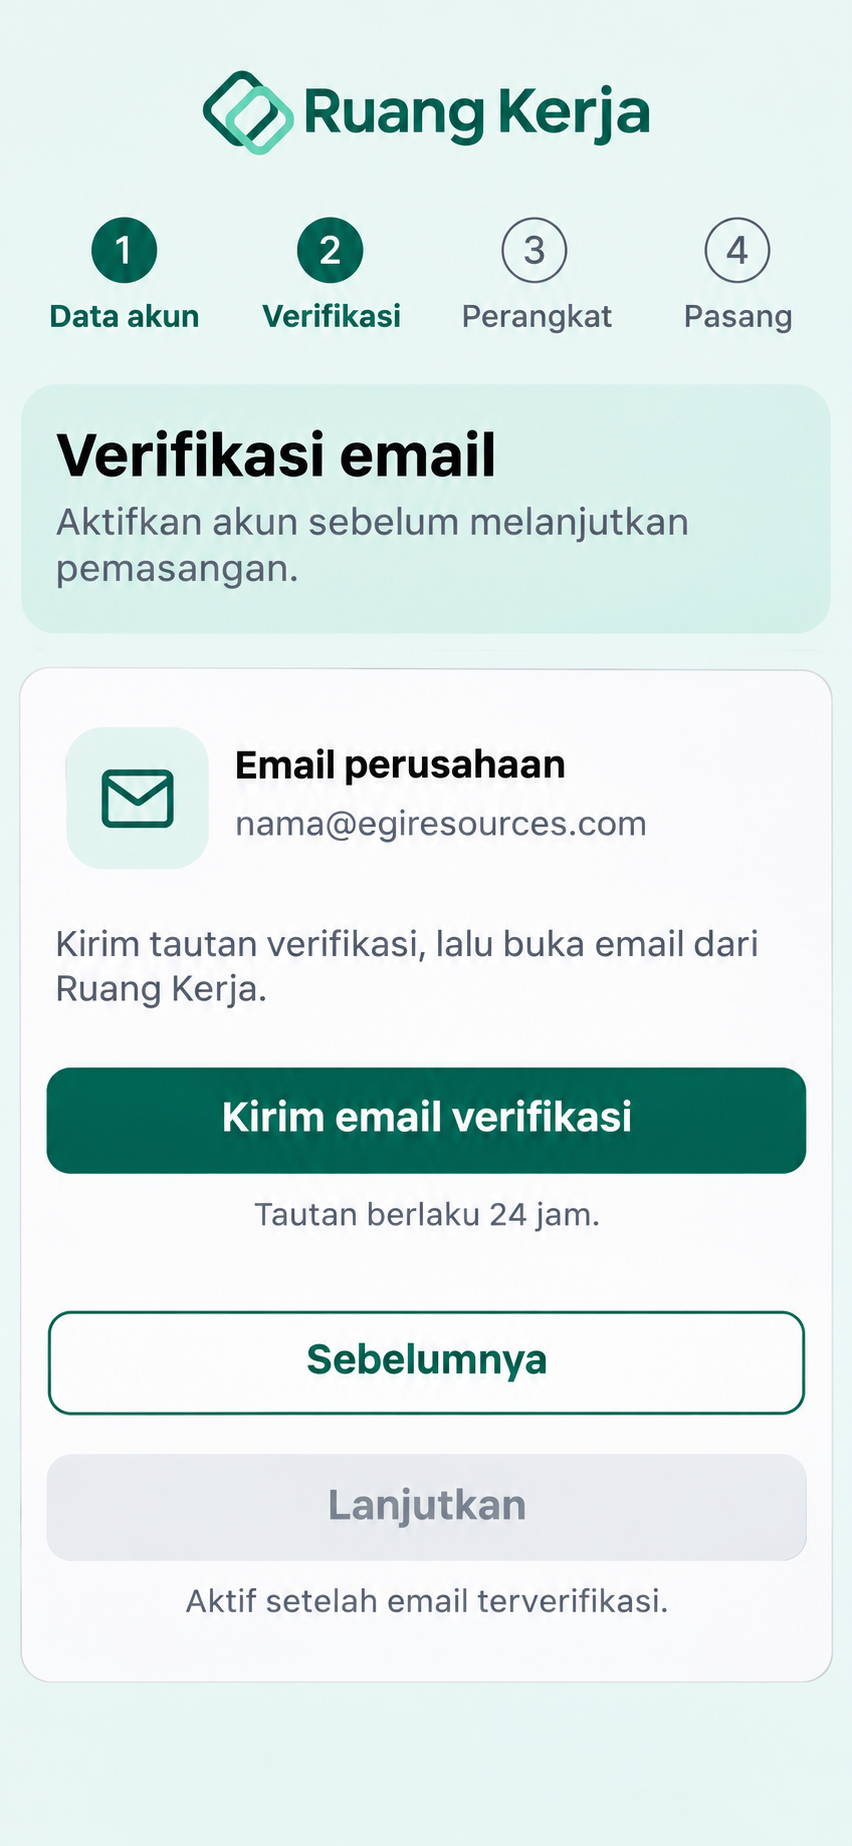
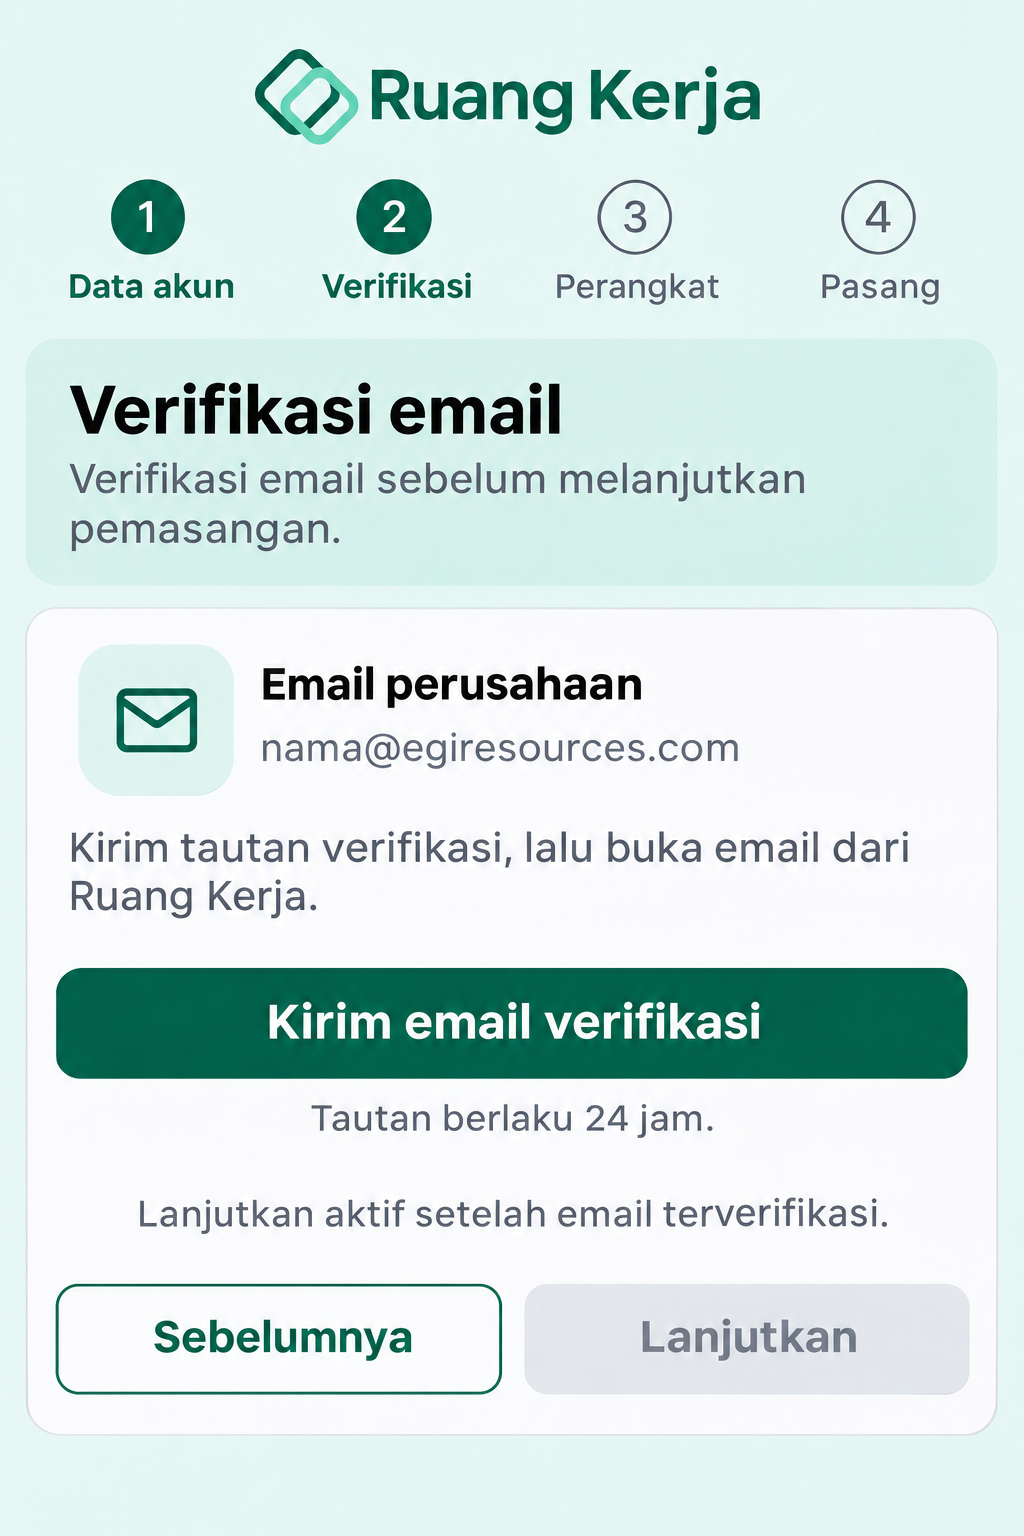
fix: sejajarkan navigasi registrasi dan pemasangan

diff --git a/frontend/src/features/install/AndroidInstall.tsx b/frontend/src/features/install/AndroidInstall.tsx
@@ -1,4 +1,4 @@
-import { ArrowLeft, Check, Download, ExternalLink, Info } from 'lucide-react';
+import { ArrowLeft, Check, ExternalLink, Info } from 'lucide-react';
 import { useEffect, useState } from 'react';
 import { leaveInstallWait, requestInstall, retryInstallCheck, useInstallation } from './controller';
 
@@ -48,14 +48,16 @@ export function AndroidInstall({ step, go, complete, busy }: {
   return <section className="registration-card install-centered">
     <img className="install-app-icon" src="/pwa/icon-512.png" alt="Ikon Ruang Kerja" /><h2>Ruang Kerja</h2>
     <p>Akses pekerjaan langsung dari layar utama, tanpa mencari tab browser.</p>
-    <button className="ui-button install-wide" disabled={!installation.nativeAvailable} onClick={() => { requestInstall(); go('android-wait'); }}>
-      <Download /> Pasang aplikasi</button>
     {!installation.nativeAvailable && <p className="registration-caption">Tombol pemasangan belum tersedia pada browser ini.
       Gunakan Chrome Android terbaru atau panduan menu browser.</p>}
     <button className="registration-text-action" onClick={() => setManual(!manual)}>Panduan pemasangan manual</button>
     {manual && <div className="registration-note"><p>Buka menu Chrome (tiga titik), pilih Tambahkan ke layar utama atau Instal aplikasi, lalu setujui konfirmasi browser.</p>
       <button className="registration-text-action" onClick={() => { retryInstallCheck(); go('android-wait'); }}>Periksa setelah memasang</button></div>}
     <p className="registration-caption">Pemasangan selalu memerlukan persetujuan Anda di browser.</p>
-    <button className="ui-button ui-button--outline install-wide" onClick={() => go('device')}><ArrowLeft /> Sebelumnya</button>
+    <div className="registration-actions">
+      <button className="ui-button ui-button--outline" onClick={() => go('device')}><ArrowLeft /> Sebelumnya</button>
+      <button className="ui-button" disabled={!installation.nativeAvailable} onClick={() => { requestInstall(); go('android-wait'); }}>
+        Pasang aplikasi</button>
+    </div>
   </section>;
 }

diff --git a/frontend/src/features/registration/registration.css b/frontend/src/features/registration/registration.css
@@ -30,14 +30,17 @@
 .registration-login a, .registration-card a:not(.ui-button), .registration-text-action { color: var(--teal); font-weight: 650; }
 .registration-text-action { padding: 8px; min-height: 44px; text-decoration: underline; }
 .registration-note { padding: 12px; border-radius: 12px; background: var(--mint); font-size: var(--font-caption); }
-.registration-actions { display: flex; gap: 12px; margin-top: 24px; }
-.registration-actions .ui-button { flex: 1; }
+.registration-actions { display: grid; grid-auto-flow: column; grid-auto-columns: minmax(0, 1fr); gap: 12px; width: 100%; margin-top: 24px; }
+.registration-actions .ui-button { width: 100%; min-width: 0; padding-inline: 8px; text-align: center; overflow-wrap: anywhere; }
+.registration-actions .ui-button svg { flex-shrink: 0; }
+.registration-actions .ui-button:disabled { background: #e4e8ec; color: #627080; opacity: 1; }
 .registration-feature-icon { width: var(--icon-feature); height: var(--icon-feature); color: var(--teal); margin-bottom: 20px; }
 .registration-mobile-label { display: none; }
 .registration-next { text-align: center; margin: 12px 0 20px !important; }
 .registration-wide + .registration-wide { margin-top: 16px; }
 .registration-email-card { display: grid; gap: 20px; }
 .registration-email-card > p { margin: 0; }
+.registration-email-card .registration-actions { margin-top: 0; }
 .registration-email-card .registration-next { margin: -8px 0 0 !important; }
 .registration-address, .registration-verified { display: flex; align-items: center; gap: 16px; min-width: 0; }
 .registration-address p, .registration-verified p { margin: 4px 0 0; color: var(--muted); overflow-wrap: anywhere; }
@@ -78,5 +81,5 @@
   .registration-card, .registration-intro { padding: 16px; }
   .registration-steps { gap: 4px; }
   .registration-steps li > span { width: 24px; height: 24px; }
-  .registration-actions { flex-direction: column; }
+  .registration-actions .ui-button svg { display: none; }
 }

diff --git a/frontend/src/features/registration/EmailStatusPage.tsx b/frontend/src/features/registration/EmailStatusPage.tsx
@@ -61,10 +61,12 @@ export function RegistrationEmailPage() {
               <p className="registration-caption registration-next" role="status">{registration.sends_remaining === 0 ? 'Batas pengiriman tercapai. Gunakan email terbaru atau daftar kembali setelah tautan kedaluwarsa.'
                 : seconds > 0 ? `Tersedia kembali dalam ${seconds} detik.` : 'Tautan berlaku 24 jam.'}</p>
               {send.error && <p className="auth-error" role="alert">{send.error instanceof ApiError ? send.error.message : 'Koneksi gagal. Periksa status sebelum mencoba kembali.'}</p>}
-              {mobile ? <><button className="ui-button registration-wide" disabled>Lanjutkan</button>
-                <p className="registration-caption registration-next">Tombol Lanjutkan aktif setelah email terverifikasi.</p></>
-                : <p className="registration-caption registration-next">Registrasi selesai setelah email terverifikasi.</p>}
-              <Link className="ui-button ui-button--outline registration-wide" to="/register?edit=1">Sebelumnya</Link>
+              <p className="registration-caption registration-next">{mobile
+                ? 'Tombol Lanjutkan aktif setelah email terverifikasi.' : 'Registrasi selesai setelah email terverifikasi.'}</p>
+              <div className="registration-actions">
+                <Link className="ui-button ui-button--outline" to="/register?edit=1">Sebelumnya</Link>
+                {mobile && <button className="ui-button" disabled>Lanjutkan</button>}
+              </div>
             </>}
     </section>
   </RegistrationShell>;

diff --git a/frontend/src/features/install/install.css b/frontend/src/features/install/install.css
@@ -8,6 +8,7 @@
 .install-platform.selected { border: 2px solid var(--teal); padding: 19px; background: var(--mint); }
 .install-centered { text-align: center; display: flex; flex-direction: column; align-items: center; gap: 20px; }
 .install-centered > p, .install-centered h2 { margin: 0; }
+.install-centered > .registration-actions { margin-top: 0; }
 .install-centered h2 { font-size: var(--font-section); }
 .install-app-icon { width: 112px; height: 112px; object-fit: contain; border-radius: 24px; background: #e6f3ef; padding: 12px; display: block; margin: 0 auto; }
 .install-app { position: relative; }

diff --git a/agents/ui-consistency.md b/agents/ui-consistency.md
@@ -5,5 +5,6 @@
 - Ukuran boleh berubah pada breakpoint yang terdokumentasi, tetapi tidak boleh berbeda hanya karena peran, halaman, kondisi kosong, error, atau dialog.
 - Login umum dan Superadmin harus muat satu layar pada viewport pengujian normal tanpa scroll atau konten terpotong. Jangan menyembunyikan overflow untuk menutupi masalah; akses saat zoom/keyboard juga harus tetap tersedia.
 - Login Superadmin tidak menampilkan panah maupun teks kembali ke login pengguna.
+- Pasangan navigasi tahap selalu sejajar horizontal: Sebelumnya di kiri, Lanjutkan atau tindakan tahap berikutnya di kanan. Lebar dan tinggi setara, jarak 12 px, tetap sejajar pada mobile kecil. Label panjang boleh membungkus tanpa mengecilkan teks/area ketuk; status, bantuan, dan kirim ulang email berada di luar baris navigasi.
 - Sebelum membuka PR ke `develop`, selesaikan matriks seluruh rute/kondisi desktop dan mobile, periksa screenshot secara visual serta ukuran hasil render, perbaiki semua temuan, dan jalankan regresi interaksi. Cantumkan cakupan dan batas pengujian; jangan menyebut halaman diperiksa hanya karena memakai CSS/komponen yang sama.
 - Bersihkan aturan ukuran lama yang sudah digantikan; jangan menumpuk override untuk menyamarkan konflik. Pengujian visual tetap terpisah dari jalur deploy.

diff --git a/mockup/Anggota-Divisi/mobile/registration-verification/README.md b/mockup/Anggota-Divisi/mobile/registration-verification/README.md
@@ -17,3 +17,5 @@ Dibuat dengan OpenAI ImageGen pada 28 November 2026, satu layar per gambar. Pemi
 Form awal tetap berisi nama, email, divisi, kata sandi, dan konfirmasi. Simpan dan lanjut membuka verifikasi; pengiriman email dipicu tombol tersendiri. Jenis alur disimpan saat pendaftaran: desktop selesai setelah verifikasi; HP melanjutkan pilihan perangkat sesudah verifikasi. Membuka email di perangkat lain tidak mengubah alur asal.
 
 Ukuran kode mengikuti standar CSS aplikasi, bukan ukuran piksel raster. Nomor dan tanda centang menandai tahap aktif/selesai; verifikasi email berbeda dari penyelesaian pemasangan.
+
+Revisi navigasi disetujui pemilik pada 28 November 2026: Sebelumnya di kiri dan Lanjutkan/Pasang aplikasi di kanan dalam satu baris horizontal, lebar serta tinggi setara. Gambar terkait telah diganti; versi bertumpuk tidak lagi menjadi referensi aktif. Kirim ulang email dan status tetap berada di luar pasangan navigasi.

diff --git a/mockup/Anggota-Divisi/mobile/onboarding-android/README.md b/mockup/Anggota-Divisi/mobile/onboarding-android/README.md
@@ -29,3 +29,5 @@ Pada login, pengguna yang belum punya akun mendapatkan tombol Daftar Anggota Div
 Warna, ikon, dan tipografi mengikuti bahasa desain Ruang Kerja. Ukuran implementasi nantinya mengikuti [standar UI](../../../../docs/ui-consistency.md); ukuran raster ImageGen bukan hasil pengukuran CSS. Status pengujian dan batas browser dicatat pada dokumentasi implementasi.
 
 Verifikasi email wajib diselesaikan sebelum halaman pilihan perangkat. Lihat [mockup langkah verifikasi](../registration-verification/README.md).
+
+Revisi navigasi disetujui pemilik pada 28 November 2026: Sebelumnya di kiri dan Lanjutkan/Pasang aplikasi di kanan dalam satu baris horizontal, lebar serta tinggi setara. Gambar terkait telah diganti; versi bertumpuk tidak lagi menjadi referensi aktif. Kirim ulang email dan status tetap berada di luar pasangan navigasi.
